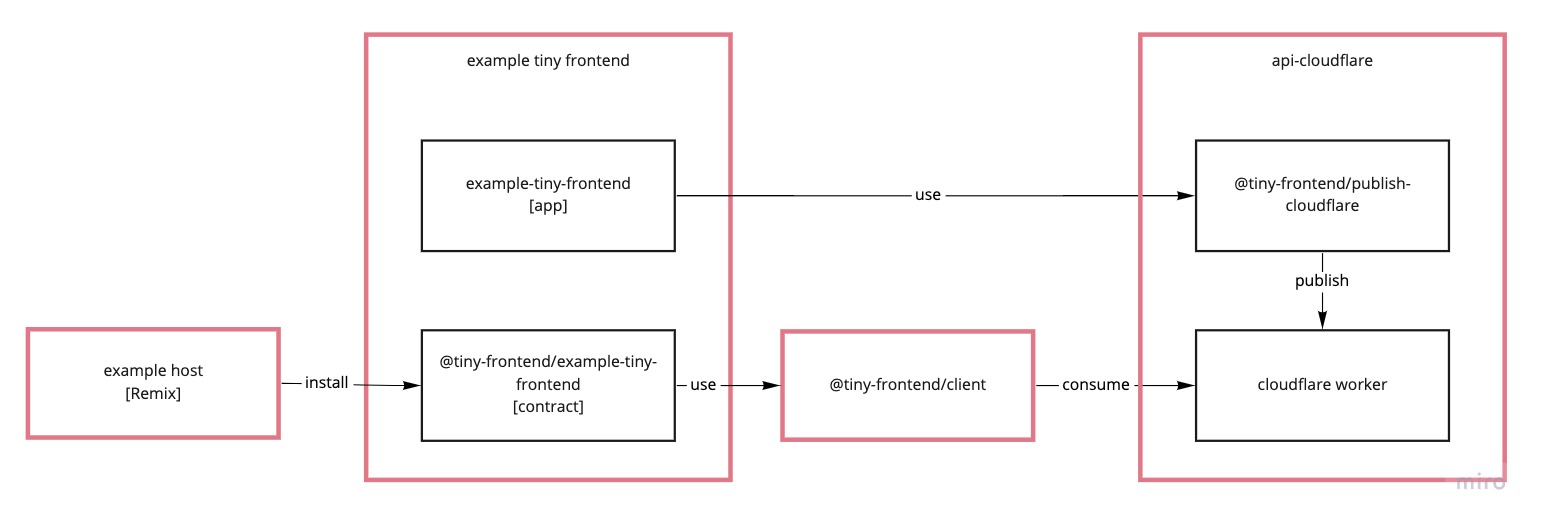
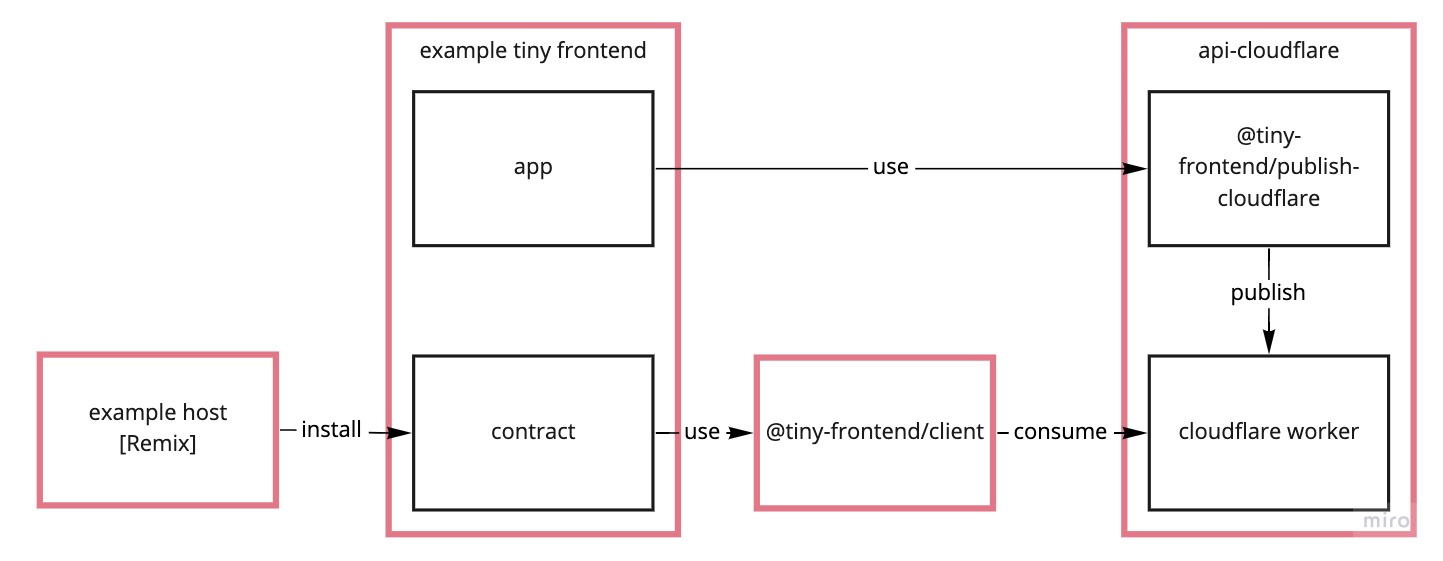
add details about architecture

Changed region(s): [[0.0, 0.0305, 0.9979, 0.9752]]

diff --git a/docs/.vuepress/styles/index.scss b/docs/.vuepress/styles/index.scss
@@ -2,4 +2,5 @@
   // brand colors
   --c-brand: #e17787;
   --c-brand-light: #ffb1c8;
+  --c-tip: var(--c-brand);
 }

diff --git a/docs/guide/architecture.md b/docs/guide/architecture.md
@@ -6,12 +6,90 @@ Here is a diagram of the general architecture:
 
 ![General architecture diagram](/images/docs/General-Architecture.jpg)
 
-Boxes with pink borders are their own GitHub repositories.
+Each box with pink border is a GitHub repository.
+There are four of them:
 
-There are basically 4 of them:
-
-- [example tiny frontend](https://github.com/tiny-frontend/example-tiny-frontend): A simple micro frontend
-- [api-cloudflare](https://github.com/tiny-frontend/api-cloudflare): an API using Cloudflare Workers where the latest bundled for that micro frontend is deployed
+- [example tiny frontend](https://github.com/tiny-frontend/example-tiny-frontend): A simple micro frontend to be deployed and consumed
+- [api-cloudflare](https://github.com/tiny-frontend/api-cloudflare): an API using Cloudflare Workers where the latest bundle for that micro frontend is deployed
 - [example-host-remix-node](https://github.com/tiny-frontend/example-host-remix-node): An example Remix app consuming that micro frontend
 - [tiny-client](https://github.com/tiny-frontend/tiny-client): A small library to consume the micro frontend at runtime
 
+## Example Tiny Frontend
+
+This is the code of the micro frontend you want to use in a host app.
+It has two folders:
+- `app`
+- `contract`
+
+### `app`
+
+The app is the source of the component you want to expose.
+In this case it exposes a component called `ExampleTinyFrontend`.
+
+It's bundled as a JavaScript `UMD` bundle, and a CSS bundle using [Vite library mode](https://vitejs.dev/guide/build.html#library-mode).
+`React` is marked as external for the build.
+It will be provided by the host.
+
+Both bundles are then deployed to the Api Cloudflare to be consumed by the host.
+
+### `contract`
+
+The contract is a regular npm package.
+It contains:
+
+- The TypeScript type for `ExampleTinyFrontend`
+- Two functions to consume the latest deployed `app` at runtime:
+  - `loadExampleTinyFrontendServer` to be used on SSR
+  - `loadExampleTinyFrontendClient` to be used client side
+- Peer dependencies (in this case `React`)
+
+## Api Cloudflare
+
+This is an example implementation of a tiny frontend api using [Cloudflare Workers](https://workers.cloudflare.com/) and [KV](https://www.cloudflare.com/products/workers-kv/).
+
+The repository has two folders:
+- `api`
+- `deploy`
+
+### `api`
+
+A tiny frontend api must have the two following endpoints:
+
+- `/tiny/latest/{libraryName}/{libraryVersion}` responds with:
+
+```json
+{
+  "umdBundle": "mfe-umd-bundle-name.js",
+  "cssBundle": "mfe-css-bundle-name.css" // Optional
+}
+```
+
+- `/tiny/bundle/{bundleName}` responds with the source of that bundle.
+
+In the case of this Cloudflare implementation, I use KV to store the source of the latest bundles and serves them at runtime.
+
+:::tip
+You could write this API with whatever stack you want.
+As long as you have the correct endpoints, and a way of deploying bundles to it, it would work.
+:::
+
+### `deploy`
+
+A simple npm package that can be used to deploy a bundle to `api`.
+It's used by the [Example Tiny Frontend `app`](https://github.com/tiny-frontend/example-tiny-frontend/blob/main/app/deploy/deploy.js#L19) to deploy its bundle.
+
+It exposes the following function:
+
+```ts
+async function deployBundle({
+  cloudflare, // Cloudflare credentials
+  name, // Name of the tiny frontend to deploy
+  contractVersion, // Version of the contract to deploy for
+  umdBundlePath, // Path of the JS UMD bundle on disk
+  cssBundlePath, // Path of the CSS bundle on disk
+}): Promise<void> {
+  // ...
+};
+```
+
+When you call this method it uses the [Cloudflare API](https://api.cloudflare.com/#workers-kv-namespace-write-key-value-pair) to push the JS UMD and CSS bundles source to KV.

diff --git a/docs/guide/about.md b/docs/guide/about.md
@@ -4,6 +4,7 @@
 
 ### 👍 What tiny frontend is
 
+- **a npm package** pulling its **latest deployed implementation** at **runtime**
 - An example of implementation of a micro frontend architecture
 - Aimed at solving "vertical" slicing
 
